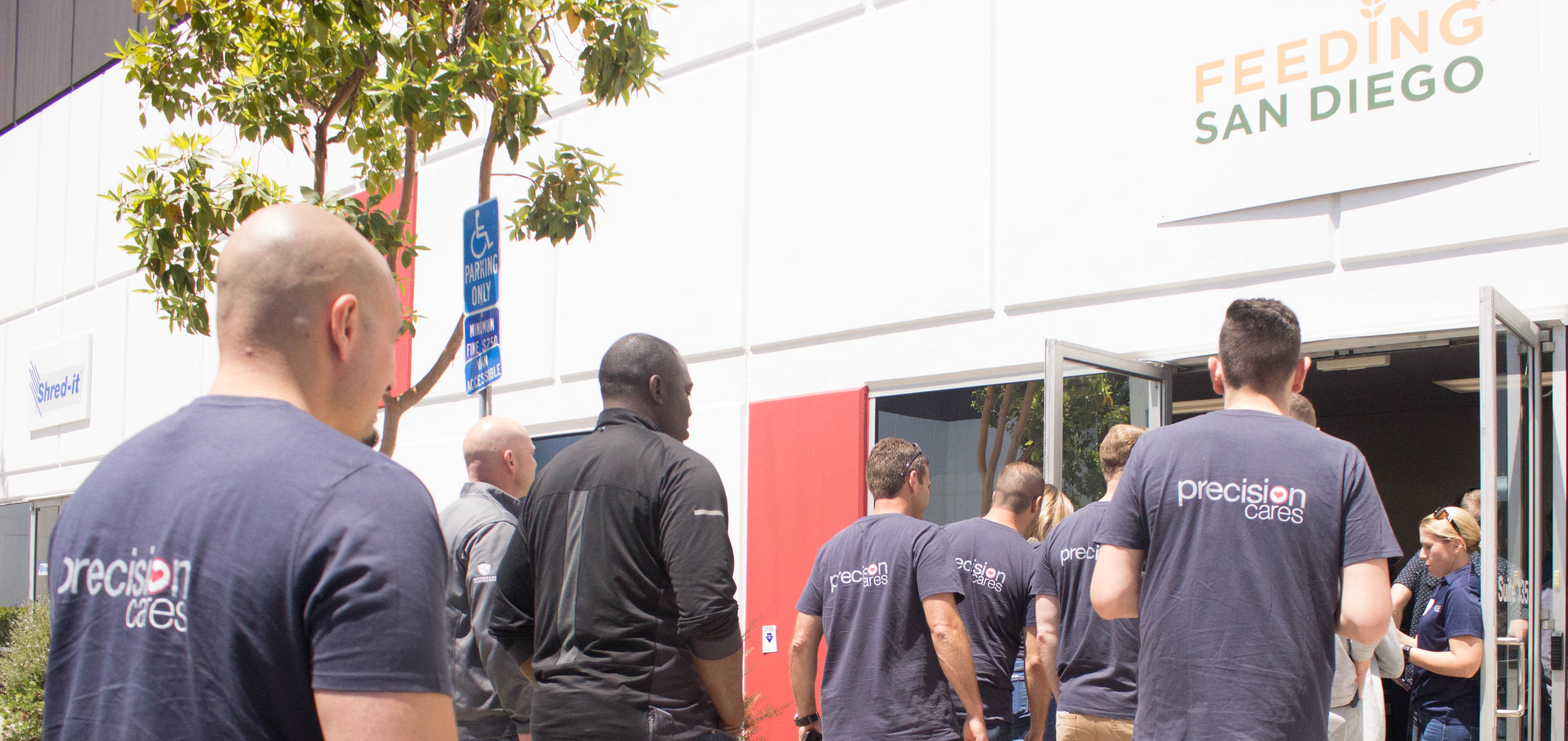
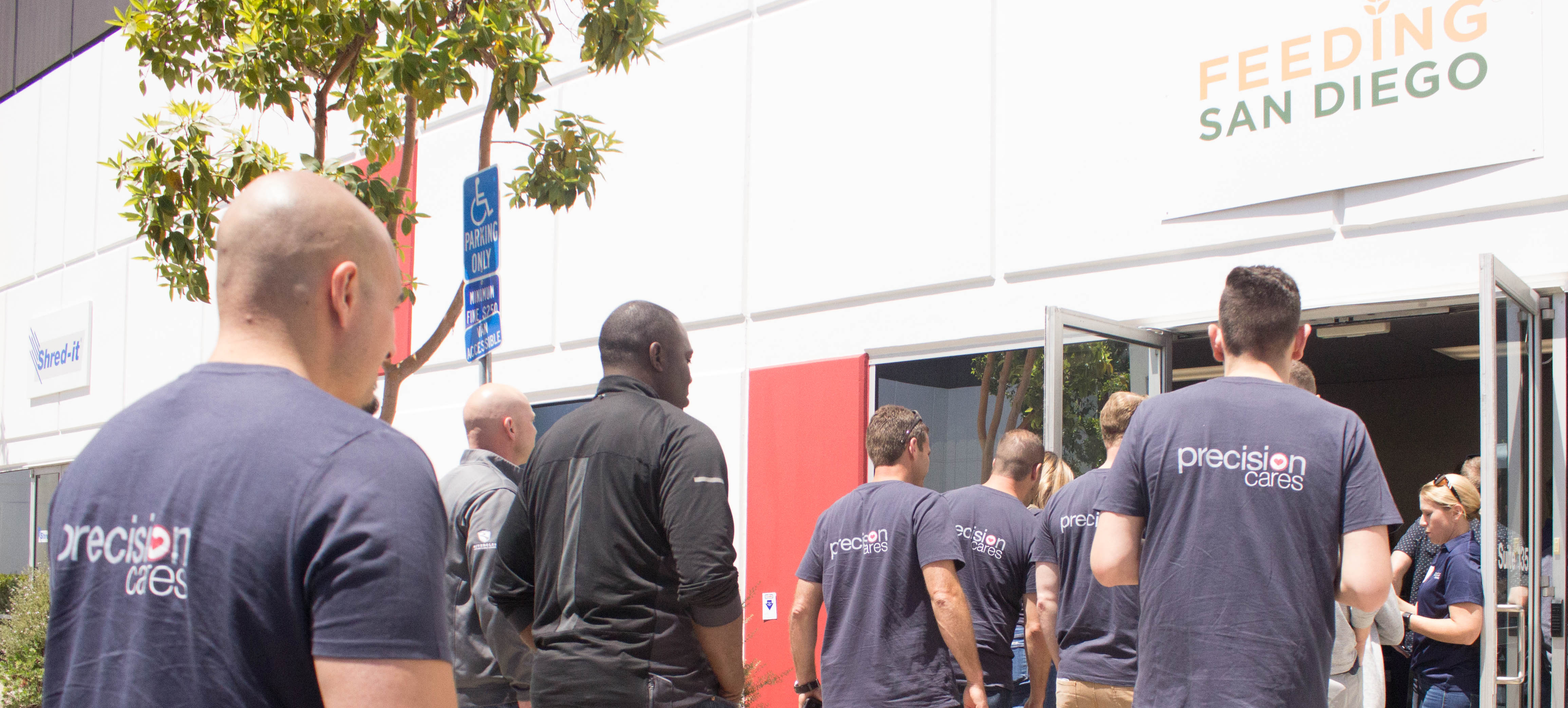
g

diff --git a/pages/assets/css/careers.css b/pages/assets/css/careers.css
@@ -1569,6 +1569,6 @@ iframe.testimonial-frame{
 .large-image{
   object-fit: cover;
   width:100%;
-  height:60vh;
+  height:100vh;
   margin: 0 auto;
 }
